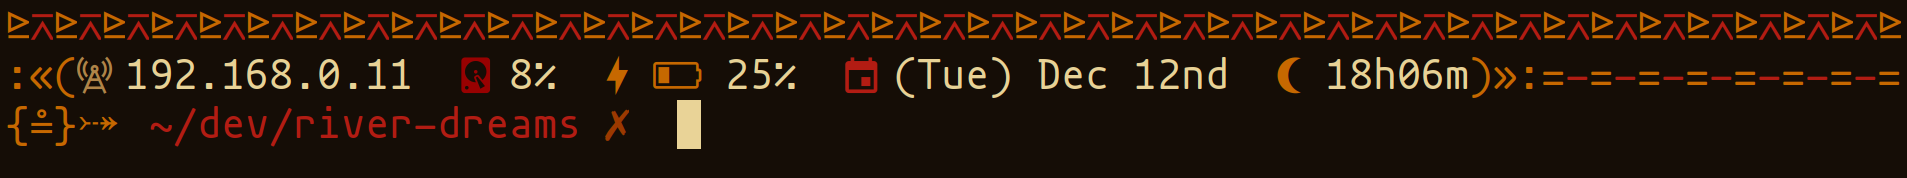
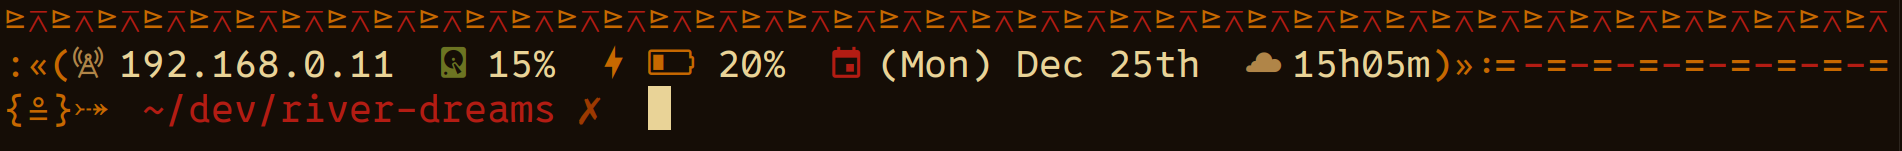
update preview

Changed region(s): [[0.0, 0.053, 1.0, 0.2384], [0.0, 0.3179, 1.0, 0.5563], [0.0, 0.5563, 0.3722, 0.8742]]

diff --git a/river-dreams.c b/river-dreams.c
@@ -1,4 +1,5 @@
 /* See LICENSE for copyright and license details. */
+
 #define _GNU_SOURCE
 #include <arpa/inet.h>
 #include <fcntl.h>

diff --git a/README.md b/README.md
@@ -3,7 +3,7 @@ A tribal-inspired ZSH theme for Linux.
 
 ![](preview.png)
 > In the preview, the terminal theme is [Flamerial](https://github.com/skippyr/flamerial)
-> and font is [Mononoki](https://github.com/madmalik/mononoki) (Nerd Fonts patched).
+> and font is [0xProto](https://github.com/0xType/0xProto) (Nerd Fonts patched).
 
 It displays:
 
@@ -21,7 +21,7 @@ In order to build it, you will need:
 - A C99 compiler, like `gcc`, and `make`.
 - The [Noto Sans](https://fonts.google.com/noto/specimen/Noto+Sans) font.
 - A font patched by the [Nerd Fonts](https://www.nerdfonts.com/font-downloads)
-  project (release `>= 3.0.0 && <= 4.0.0`).
+  project.
 
 ## Install
 Edit the file `config.mk` to match your needs. Then, run the following command
